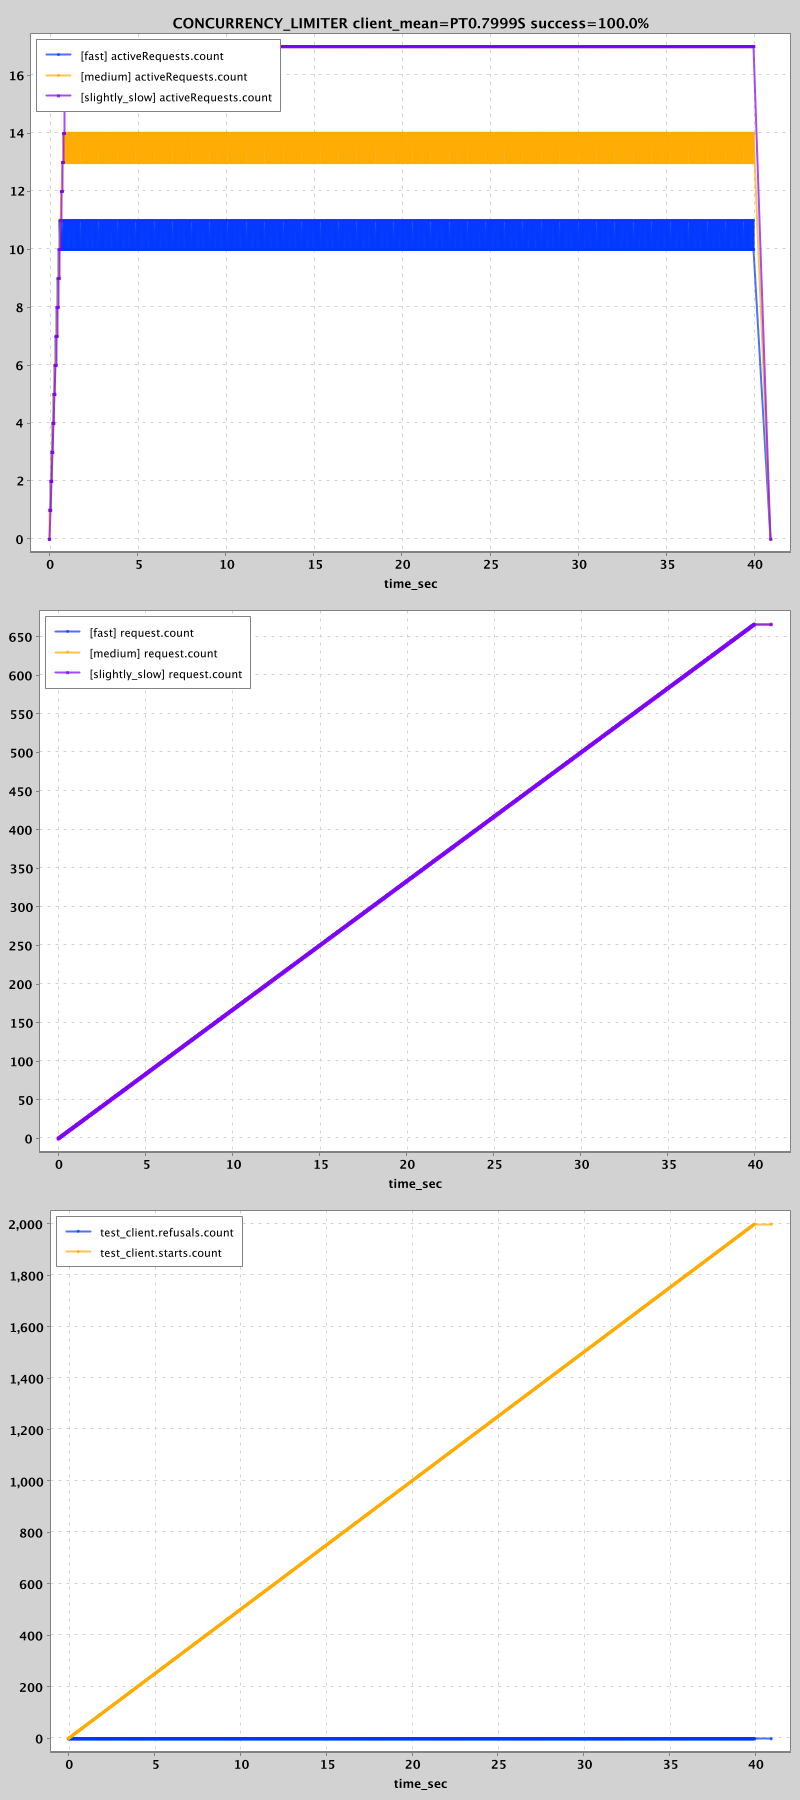
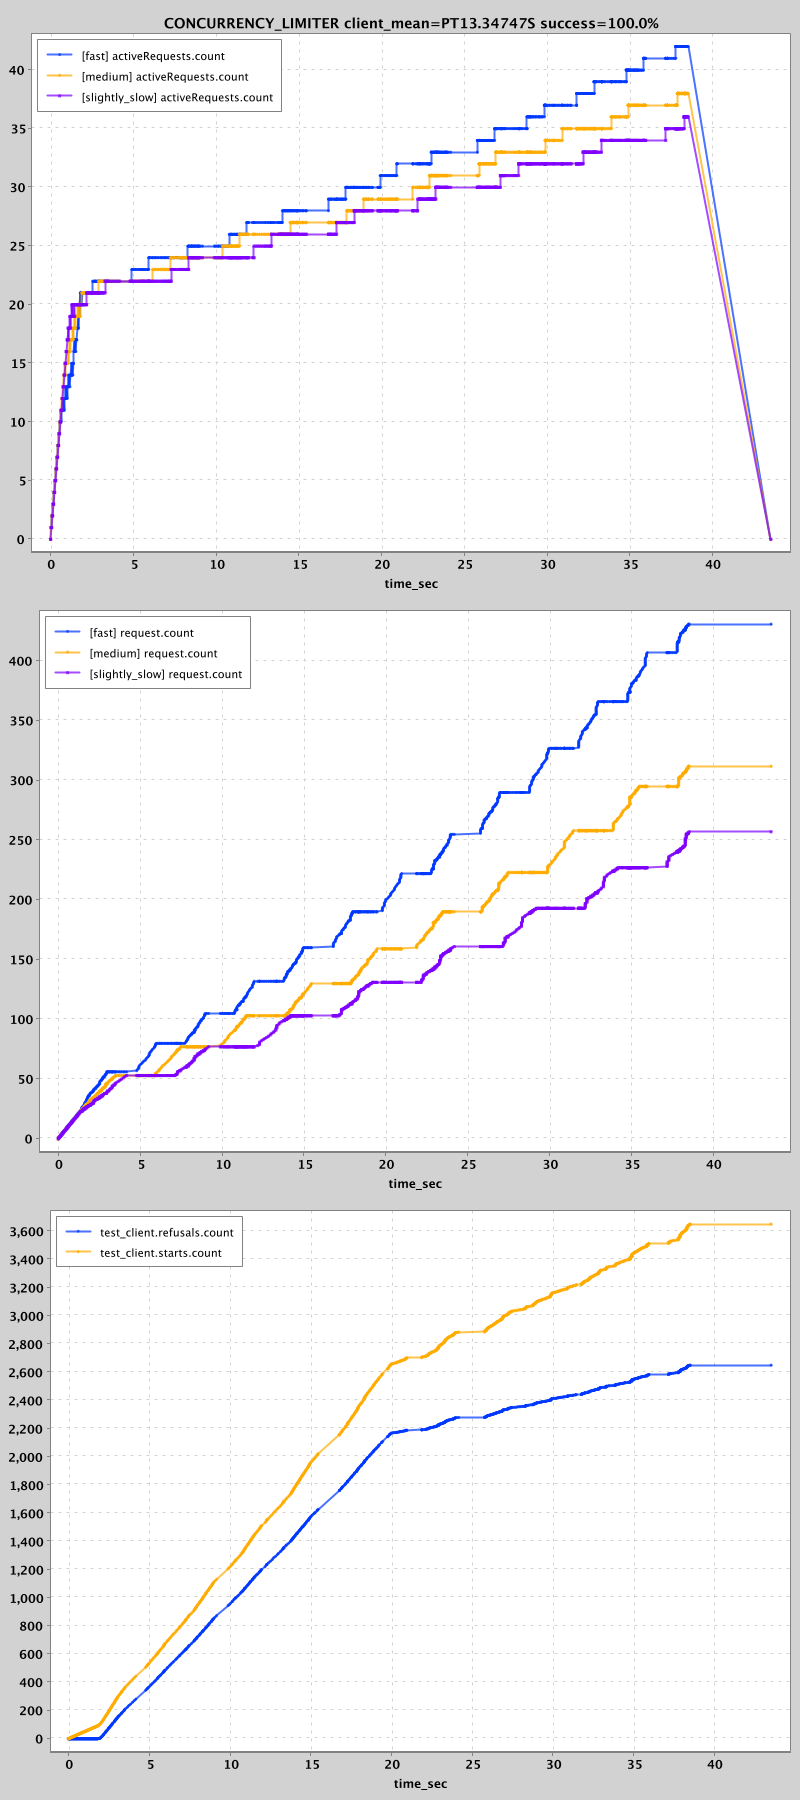
Dial up simplest

diff --git a/simulation/src/test/java/com/palantir/dialogue/core/SimulationTest.java b/simulation/src/test/java/com/palantir/dialogue/core/SimulationTest.java
@@ -97,23 +97,24 @@ public class SimulationTest {
 
     @Test
     public void simplest_possible_case() {
+        int capacity = 20;
         Channel[] servers = {
             SimulationServer.builder()
                     .metricName("fast")
                     .response(response(200))
-                    .responseTimeConstant(Duration.ofMillis(600)) // this isn't very realistic
+                    .responseTimeUpToCapacity(Duration.ofMillis(600), capacity)
                     .simulation(simulation)
                     .build(),
             SimulationServer.builder()
                     .metricName("medium")
                     .response(response(200))
-                    .responseTimeConstant(Duration.ofMillis(800))
+                    .responseTimeUpToCapacity(Duration.ofMillis(800), capacity)
                     .simulation(simulation)
                     .build(),
             SimulationServer.builder()
                     .metricName("slightly_slow")
                     .response(response(200))
-                    .responseTimeConstant(Duration.ofMillis(1000))
+                    .responseTimeUpToCapacity(Duration.ofMillis(1000), capacity)
                     .simulation(simulation)
                     .build()
         };
@@ -122,7 +123,7 @@ public class SimulationTest {
 
         result = Benchmark.builder()
                 .requestsPerSecond(50)
-                .sendUntil(Duration.ofSeconds(40))
+                .sendUntil(Duration.ofSeconds(20))
                 .channel(channel)
                 .simulation(simulation)
                 .run();
@@ -306,15 +307,16 @@ public class SimulationTest {
 
     @After
     public void after() {
+        Duration meanMillis =
+                Duration.ofNanos((long) result.clientHistogram().getMean());
         String title = String.format(
-                "%s client_mean=%s success=%s%%",
-                strategy, Duration.ofNanos((long) result.clientHistogram().getMean()), result.successPercentage());
+                "%s client_mean=%s success=%s%%", strategy, meanMillis, result.successPercentage());
 
         XYChart activeRequests = simulation.metrics().chart(Pattern.compile("active"));
         activeRequests.setTitle(title);
 
-        XYChart clientStuff = simulation.metrics().chart(Pattern.compile("(refusals|starts).count"));
         XYChart serverRequestCount = simulation.metrics().chart(Pattern.compile("request.*count"));
+        XYChart clientStuff = simulation.metrics().chart(Pattern.compile("(refusals|starts).count"));
 
         SimulationMetrics.png(testName.getMethodName() + ".png", activeRequests, serverRequestCount, clientStuff);
     }

diff --git a/simulation/src/main/java/com/palantir/dialogue/core/Benchmark.java b/simulation/src/main/java/com/palantir/dialogue/core/Benchmark.java
@@ -177,7 +177,7 @@ public final class Benchmark {
                             .clientHistogram(histogramChannel.getHistogram().getSnapshot())
                             .endTime(Duration.ofNanos(simulation.clock().read()))
                             .statusCodes(statusCodes)
-                            .successPercentage(Math.round(statusCodes.get("200") * 1000d / requestsStarted[0]) / 10d)
+                            .successPercentage(Math.round(statusCodes.getOrDefault("200", 0) * 1000d / requestsStarted[0]) / 10d)
                             .numSent(requestsStarted[0])
                             .numReceived(responsesReceived[0])
                             .build();
